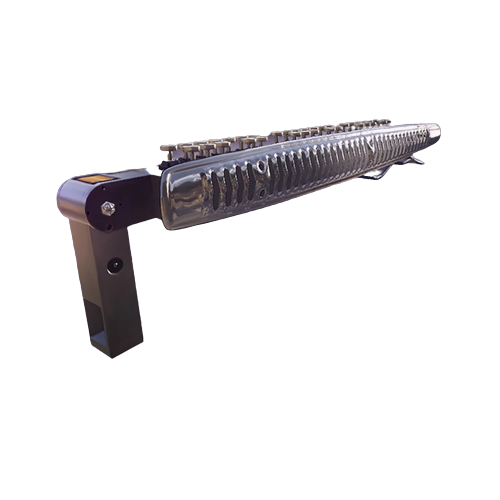
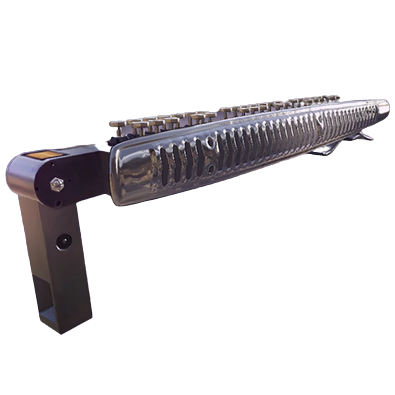
avoid hardchord object length & change image size

Changed region(s): [[0.0, 0.2127, 1.0, 0.8506]]

diff --git a/src/sketch.js b/src/sketch.js
@@ -61,7 +61,7 @@ function getNextNote() {
 
 var nextTimbreIdx = 3;
 function getNextTimbre() {
-  nextTimbreIdx = (nextTimbreIdx + 1) % 4;
+  nextTimbreIdx = (nextTimbreIdx + 1) % Object.keys(id2timbre).length;
   return nextTimbreIdx;
 }
 
